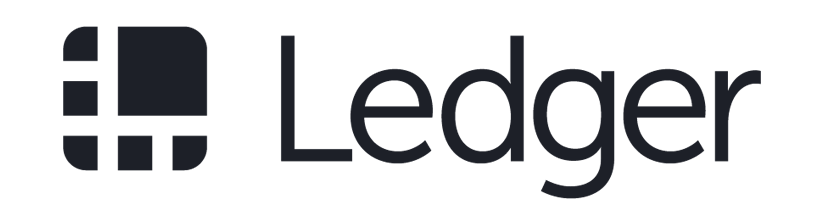
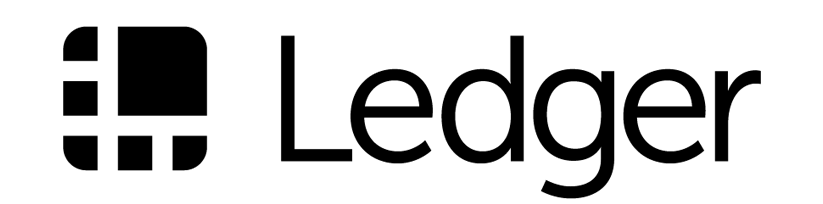
Paint it black
Change Icon colors, also added white icons

Changed region(s): [[0.3341, 0.1765, 0.9417, 0.9706], [0.0608, 0.1176, 0.2734, 0.5882], [0.0608, 0.6471, 0.2734, 0.8529]]

diff --git a/src/components/wallet/Access/index.js b/src/components/wallet/Access/index.js
@@ -35,7 +35,7 @@ class Index extends Component {
         {
           id: "ledger",
           label: "Ledger",
-          icon: require("../../../images/ledger-icon.jpg"),
+          icon: require("../../../images/ledger-icon.png"),
         },
         {
           id: "trezor",
